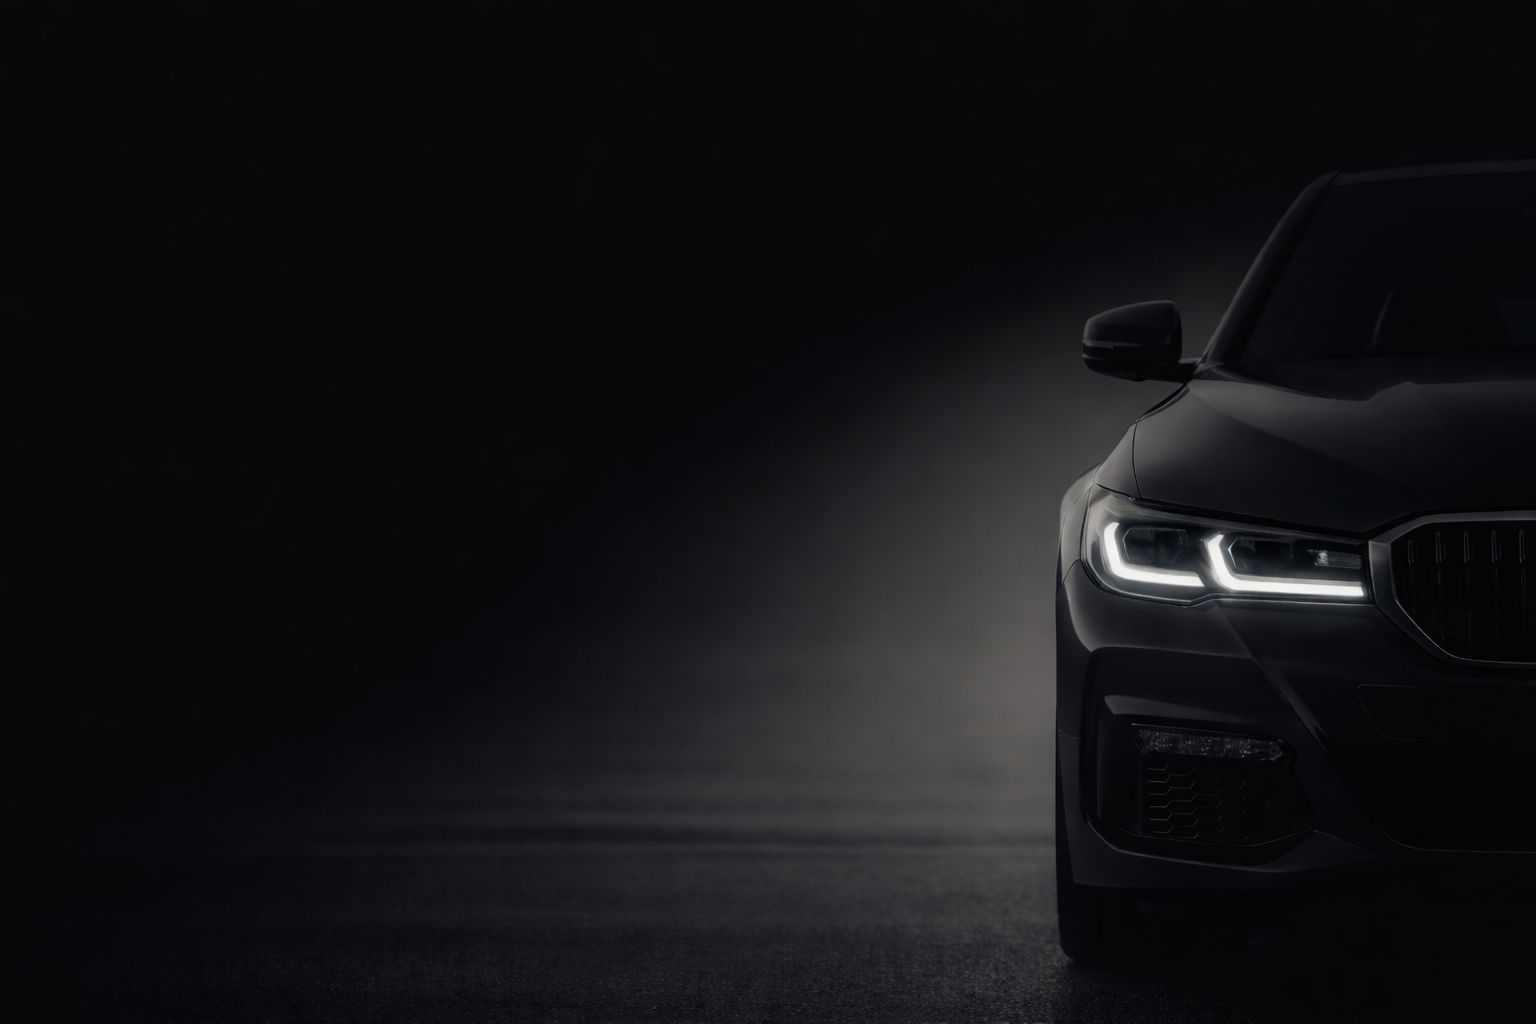
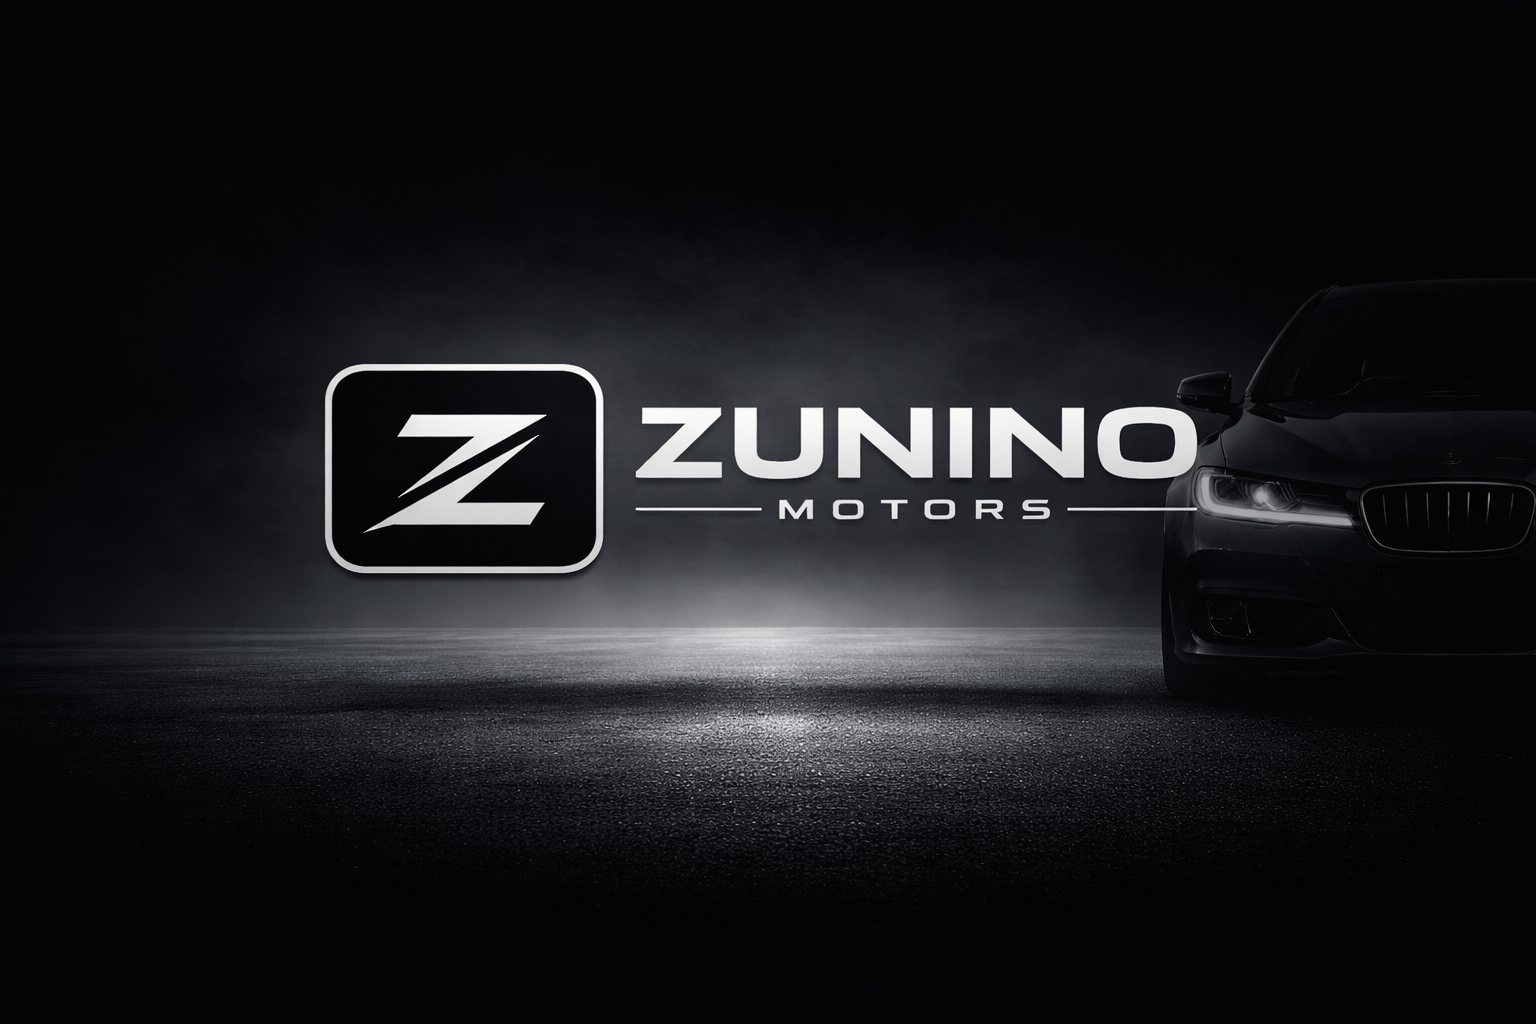
Las changes

Changed region(s): [[0.0625, 0.2812, 1.0, 1.0], [0.8125, 0.2188, 0.8438, 0.2812], [0.6875, 0.3125, 0.7188, 0.3438]]

diff --git a/src/components/Navbar.tsx b/src/components/Navbar.tsx
@@ -1,6 +1,7 @@
 import { useState, useCallback } from "react";
 import { Menu, X } from "lucide-react";
 import { motion, AnimatePresence } from "framer-motion";
+import logoNavbar from "@/assets/logonavbar.png";
 
 const navLinks = [
   { label: "Inicio", href: "inicio" },
@@ -12,26 +13,43 @@ const navLinks = [
 const Navbar = () => {
   const [isOpen, setIsOpen] = useState(false);
 
-  const handleNavClick = useCallback((e: React.MouseEvent<HTMLAnchorElement>, sectionId: string) => {
-    e.preventDefault();
-    setIsOpen(false);
-    const element = document.getElementById(sectionId);
-    if (element) {
-      const offset = 64; // navbar height
-      const top = element.getBoundingClientRect().top + window.scrollY - offset;
-      window.scrollTo({ top, behavior: "smooth" });
-    }
-  }, []);
+  const handleNavClick = useCallback(
+    (e: React.MouseEvent<HTMLAnchorElement>, sectionId: string) => {
+      e.preventDefault();
+      setIsOpen(false);
+      const element = document.getElementById(sectionId);
+      if (element) {
+        const offset = 64;
+        const top =
+          element.getBoundingClientRect().top + window.scrollY - offset;
+        window.scrollTo({ top, behavior: "smooth" });
+      }
+    },
+    []
+  );
 
   return (
-    <nav className="fixed top-0 left-0 right-0 z-50 bg-background/90 backdrop-blur-md border-b border-border">
+    <nav className="fixed top-0 left-0 right-0 z-50 bg-white/90 backdrop-blur-md border-b border-border">
       <div className="container mx-auto flex items-center justify-between h-16 px-4">
+        
+        {/* LOGO */}
         <a
           href="#inicio"
           onClick={(e) => handleNavClick(e, "inicio")}
-          className="font-display text-2xl tracking-wider text-foreground"
+          className="flex items-center"
         >
-          ZUNINO MOTORS
+          <img
+            src={logoNavbar}
+            alt="Zunino Motors"
+            className="
+              h-52 md:h-54
+              w-auto
+              object-contain
+              transition-all duration-300
+              hover:scale-105
+              translate-y-2
+            "
+          />
         </a>
 
         {/* Desktop nav */}
@@ -46,6 +64,7 @@ const Navbar = () => {
               {link.label}
             </a>
           ))}
+
           <a
             href="https://wa.me/59891094375"
             target="_blank"
@@ -74,7 +93,7 @@ const Navbar = () => {
             animate={{ height: "auto", opacity: 1 }}
             exit={{ height: 0, opacity: 0 }}
             transition={{ duration: 0.3 }}
-            className="md:hidden bg-background border-b border-border overflow-hidden"
+            className="md:hidden bg-white border-b border-border overflow-hidden"
           >
             <div className="flex flex-col px-4 py-4 gap-4">
               {navLinks.map((link) => (
@@ -87,6 +106,7 @@ const Navbar = () => {
                   {link.label}
                 </a>
               ))}
+
               <a
                 href="https://wa.me/59891094375"
                 target="_blank"

diff --git a/src/components/HeroSection.tsx b/src/components/HeroSection.tsx
@@ -3,7 +3,7 @@ import heroImage from "@/assets/background.png";
 
 const HeroSection = () => {
   return (
-    <section id="inicio" className="relative min-h-screen flex items-center justify-center overflow-hidden">
+    <section id="inicio" className="relative min-h-screen flex justify-center overflow-hidden">
       {/* Background image */}
       <div className="absolute inset-0">
         <img
@@ -11,41 +11,21 @@ const HeroSection = () => {
           alt="Zunino Motors showroom"
           className="w-full h-full object-cover"
         />
-        <div className="absolute inset-0 bg-foreground/70" />
+        <div className="absolute inset-0 bg-foreground/10" />
       </div>
 
       {/* Content */}
-      <div className="relative z-10 container mx-auto px-4 text-center">
-        <motion.p
-          initial={{ opacity: 0, y: 20 }}
-          animate={{ opacity: 1, y: 0 }}
-          transition={{ duration: 0.6 }}
-          className="text-primary-foreground/70 text-sm tracking-[0.3em] uppercase mb-4 font-body"
-        >
-          ·
-        </motion.p>
-
-        <motion.h1
-          initial={{ opacity: 0, y: 30 }}
-          animate={{ opacity: 1, y: 0 }}
-          transition={{ duration: 0.6, delay: 0.15 }}
-          className="font-display text-6xl md:text-8xl lg:text-9xl text-primary-foreground leading-none mb-6"
-        >
-          ZUNINO
-          <br />
-         ―MOTORS―
-        </motion.h1>
-
+      <div className="relative z-10 container mx-auto px-4 text-center pt-[65vh] pb-20">
         <motion.p
           initial={{ opacity: 0, y: 20 }}
           animate={{ opacity: 1, y: 0 }}
           transition={{ duration: 0.6, delay: 0.3 }}
-          className="text-primary-foreground/80 text-lg md:text-xl   mx-auto mb-10 font-body font-light"
+          className="text-primary-foreground/80 text-lg md:text-2xl mx-auto mb-10 font-body font-light"
         >     
           <br />  
-          Vehículos seleccionados, excelentes oportunidades y atención personalizada.
+          <b>Vehículos seleccionados, excelentes oportunidades y atención personalizada.</b>
           <br />  
-          Comprá, vendé o permutá tu auto con confianza.  
+          <b>Comprá, vendé o permutá tu auto con confianza.</b>  
         </motion.p>
 
         <motion.div

diff --git a/index.html b/index.html
@@ -8,11 +8,11 @@
     <link rel="shortcut icon" href="/public/logo.jpg" type="image/x-icon">
     <meta name="description" content="Automotora en Parada Rodó, Canelones, Uruguay. Compra, venta, permuta y consignación de vehículos usados con atención personalizada." />
     <meta name="author" content="Zunino Motors" />
+    <meta name="keywords" content="autos Uruguay, compra de autos, venta de autos, vehículos usados, Zunino Motors" />
 
     <meta property="og:title" content="Zunino Motors | Automotora en Canelones" />
     <meta property="og:description" content="Compra, venta, permuta y consignación de vehículos en Parada Rodó, Canelones, Uruguay." />
     <meta property="og:type" content="website" />
-
     <meta name="twitter:card" content="summary_large_image" />
   </head>
 

diff --git a/src/components/StatsSection.tsx b/src/components/StatsSection.tsx
@@ -2,7 +2,7 @@ import { motion } from "framer-motion";
 
 const StatsSection = () => {
   const stats = [
-    { value: "5+", label: "Años de experiencia" },
+    { value: "10+", label: "Años de experiencia" },
     { value: "50+", label: "Vehículos vendidos" },
     { value: "100%", label: "Documentación al día" },
     { value: "⭐", label: "Satisfacción garantizada" },

diff --git a/src/pages/Login.tsx b/src/pages/Login.tsx
@@ -1,7 +1,7 @@
 import { useState, useEffect } from "react"
 import { supabase } from "@/integrations/supabase/client"
 import { useNavigate } from "react-router-dom"
-import zuninoLogo from "@/assets/zunino-logo.png"
+import zuninoLogo from "@/assets/Logo.jpg"
 
 export default function Login() {
   const [email, setEmail] = useState("")
